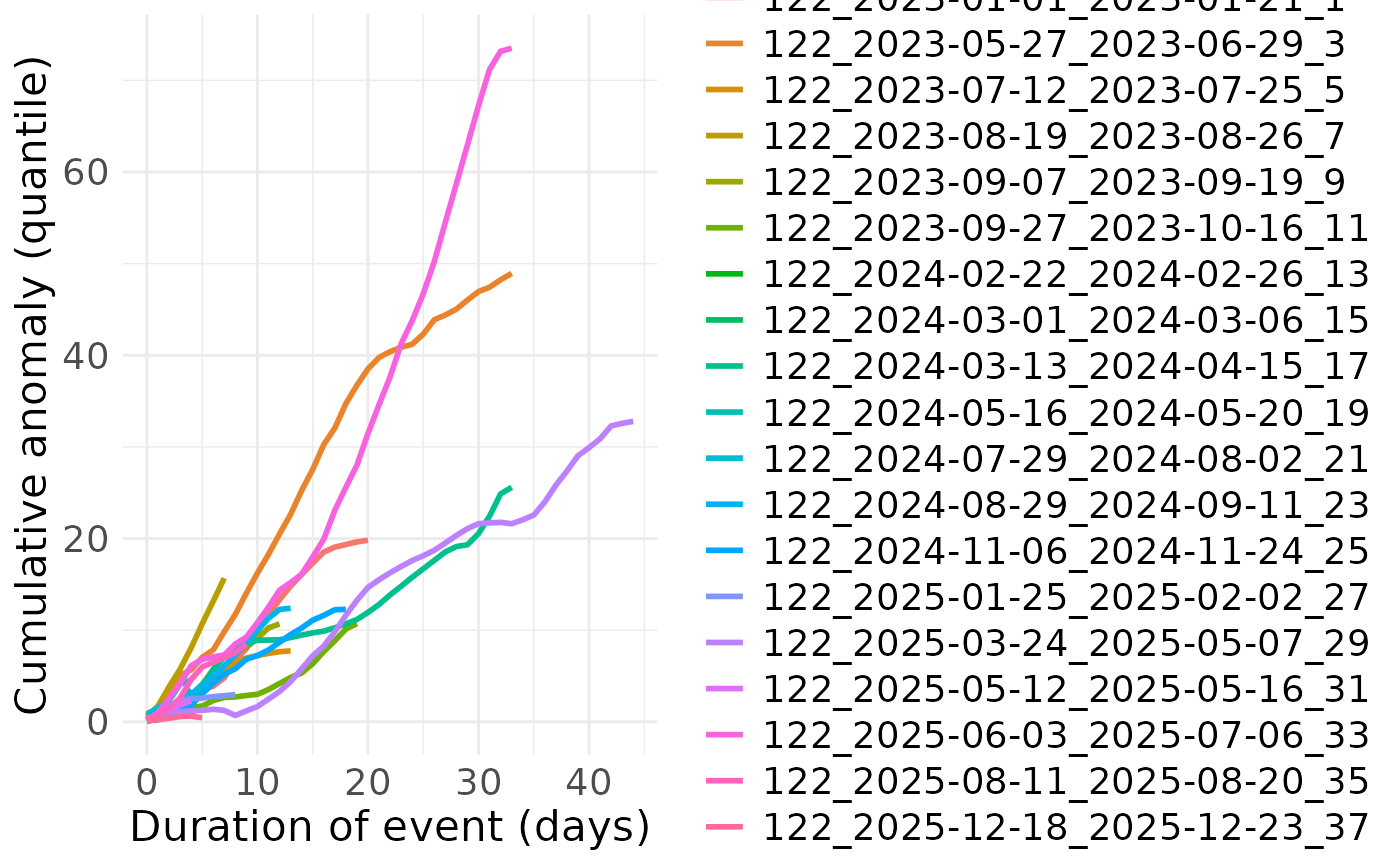
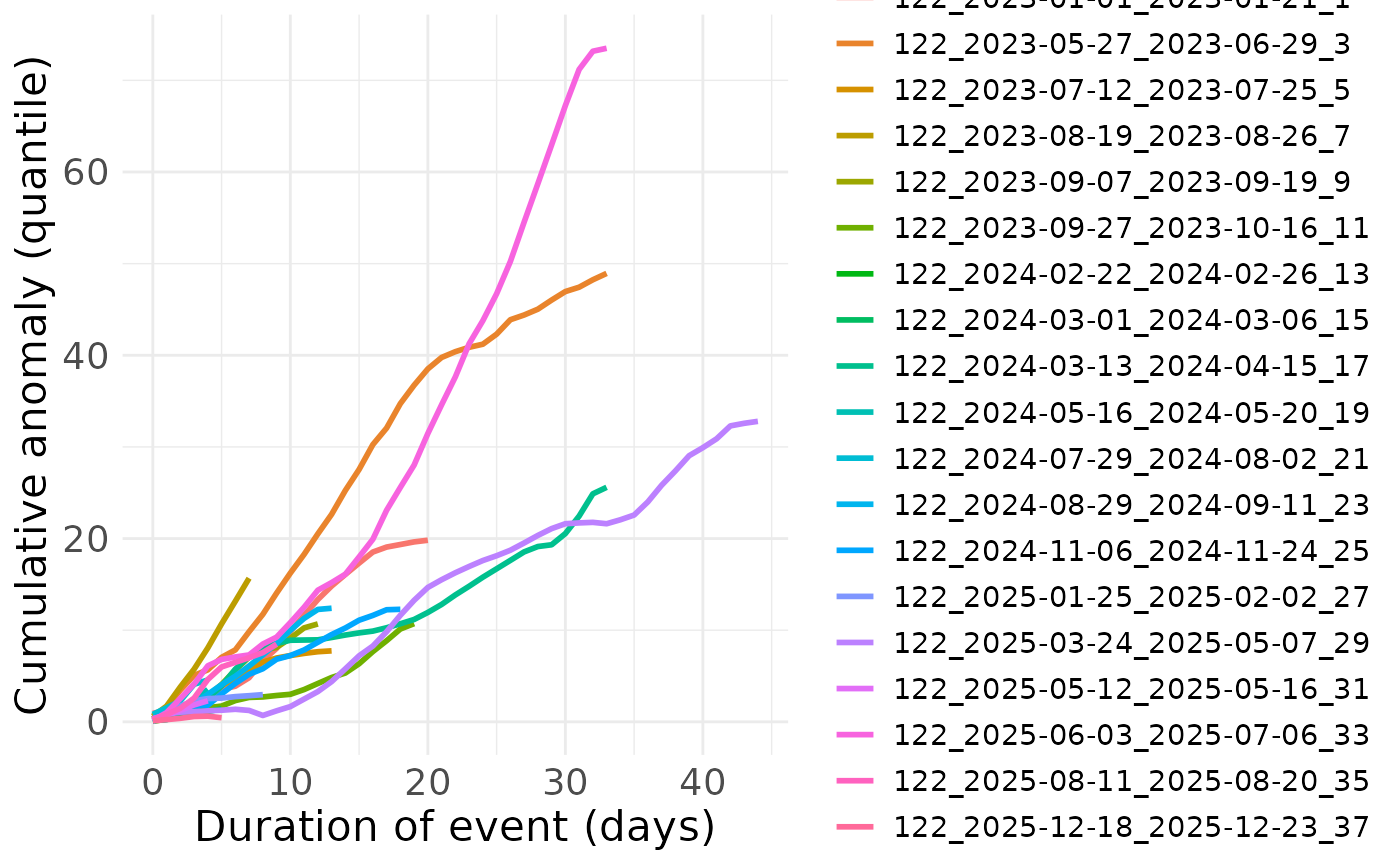
Deploying to gh-pages from @ VicoDelannoy/BioExtremeEvent@8dc6ef4bd537fd6a685067cb2ac87c960bdb5496 🚀

diff --git a/articles/g_calc_metrics_point.html b/articles/g_calc_metrics_point.html
@@ -253,13 +253,13 @@ Categories are defined in Hobday <em>et al.</em> 2018.</p>
 </tr>
 <tr class="even">
 <td align="center">x  </td>
-<td align="center">Latitude</td>
+<td align="center">Longitude</td>
 <td align="center">double</td>
 <td align="center">decimal degree</td>
 </tr>
 <tr class="odd">
 <td align="center">y</td>
-<td align="center">Longitude</td>
+<td align="center">Latitude</td>
 <td align="center">double</td>
 <td align="center">decimal degree</td>
 </tr>
@@ -464,8 +464,32 @@ Categories are defined in Hobday <em>et al.</em> 2018.</p>
 <td align="center">*</td>
 </tr>
 <tr class="odd">
+<td align="center">mean_anomaly_fixed</td>
+<td align="center">average of anomaly_fixed in the period</td>
+<td align="center">double</td>
+<td align="center">*</td>
+</tr>
+<tr class="even">
+<td align="center">sd_anomaly_fixed</td>
+<td align="center">standard deviation of anomaly_fixed</td>
+<td align="center">double</td>
+<td align="center">*</td>
+</tr>
+<tr class="odd">
 <td align="center"></td>
-<td align="center">period</td>
+<td align="center">in the period</td>
+<td align="center"></td>
+<td align="center"></td>
+</tr>
+<tr class="even">
+<td align="center">max_anomaly_fixed</td>
+<td align="center">maximum value of anomaly_fixed in</td>
+<td align="center">double</td>
+<td align="center">*</td>
+</tr>
+<tr class="odd">
+<td align="center"></td>
+<td align="center">the period</td>
 <td align="center"></td>
 <td align="center"></td>
 </tr>
@@ -503,6 +527,9 @@ Categories are defined in Hobday <em>et al.</em> 2018.</p>
 </table>
 <p>* Same unit as the spatraster provided (here it is degree Celsius) **
 Same format as the in the spatraster provided (here yyyy-mm-dd)</p>
+<p>Note: columns depending on baseline_qt, baseline_mean and
+baseline_fixed will only be calculated if the associated argument have
+been provided.</p>
 </div>
 </div>
 <div class="section level2">
@@ -687,7 +714,7 @@ indicate the extremes according to the categories:<a class="anchor" aria-label="
 <span>                              axis.title.x <span class="op">=</span> <span class="fu">ggplot2</span><span class="fu">::</span><span class="fu"><a href="https://ggplot2.tidyverse.org/reference/element.html" class="external-link">element_text</a></span><span class="op">(</span>size <span class="op">=</span> <span class="fl">16</span><span class="op">)</span>,</span>
 <span>                              axis.title.y <span class="op">=</span> <span class="fu">ggplot2</span><span class="fu">::</span><span class="fu"><a href="https://ggplot2.tidyverse.org/reference/element.html" class="external-link">element_text</a></span><span class="op">(</span>size <span class="op">=</span> <span class="fl">16</span><span class="op">)</span>,</span>
 <span>                              legend.title <span class="op">=</span>  <span class="fu">ggplot2</span><span class="fu">::</span><span class="fu"><a href="https://ggplot2.tidyverse.org/reference/element.html" class="external-link">element_text</a></span><span class="op">(</span>size <span class="op">=</span> <span class="fl">16</span><span class="op">)</span>,</span>
-<span>                              legend.text  <span class="op">=</span>  <span class="fu">ggplot2</span><span class="fu">::</span><span class="fu"><a href="https://ggplot2.tidyverse.org/reference/element.html" class="external-link">element_text</a></span><span class="op">(</span>size <span class="op">=</span> <span class="fl">14</span><span class="op">)</span></span>
+<span>                              legend.text  <span class="op">=</span>  <span class="fu">ggplot2</span><span class="fu">::</span><span class="fu"><a href="https://ggplot2.tidyverse.org/reference/element.html" class="external-link">element_text</a></span><span class="op">(</span>size <span class="op">=</span> <span class="fl">11</span><span class="op">)</span></span>
 <span>    <span class="op">)</span><span class="op">)</span></span></code></pre></div>
 <p><img src="g_calc_metrics_point_files/figure-html/unnamed-chunk-8-1.png" class="r-plt" alt="" width="700"><img src="g_calc_metrics_point_files/figure-html/unnamed-chunk-8-2.png" class="r-plt" alt="" width="700"></p>
 </div>

diff --git a/reference/BEE.calc.metrics_point.html b/reference/BEE.calc.metrics_point.html
@@ -89,7 +89,8 @@
 <span>  end_date <span class="op">=</span> <span class="cn">NULL</span>,</span>
 <span>  time_lapse_vector <span class="op">=</span> <span class="cn">NULL</span>,</span>
 <span>  baseline_qt <span class="op">=</span> <span class="cn">NULL</span>,</span>
-<span>  baseline_mean <span class="op">=</span> <span class="va">baseline_mean</span>,</span>
+<span>  baseline_mean <span class="op">=</span> <span class="cn">NULL</span>,</span>
+<span>  baseline_fixed <span class="op">=</span> <span class="cn">NULL</span>,</span>
 <span>  group_by_event <span class="op">=</span> <span class="cn">FALSE</span></span>
 <span><span class="op">)</span></span></code></pre></div>
     </div>
@@ -121,35 +122,42 @@ longitudes and latitudes, respectively.</p></dd>
 
 <dt id="arg-start-date">start_date<a class="anchor" aria-label="anchor" href="#arg-start-date"></a></dt>
 <dd><p>:
-First day on which you want to start computing metrics.</p></dd>
+First day on which you want to start computing metrics. Optional argument.</p></dd>
 
 
 <dt id="arg-end-date">end_date<a class="anchor" aria-label="anchor" href="#arg-end-date"></a></dt>
 <dd><p>:
-Last day on which you want to start computing metrics.</p></dd>
+Last day on which you want to start computing metrics. Optional argument.</p></dd>
 
 
 <dt id="arg-time-lapse-vector">time_lapse_vector<a class="anchor" aria-label="anchor" href="#arg-time-lapse-vector"></a></dt>
 <dd><p>:
 A vector of time laps on which to compute mean evolution rate and variance
-of the studdied parameter.</p></dd>
+of the studdied parameter. Optional argument.</p></dd>
 
 
 <dt id="arg-baseline-qt">baseline_qt<a class="anchor" aria-label="anchor" href="#arg-baseline-qt"></a></dt>
 <dd><p>:
 Spatraster of the 90th percentile baseline (or the 10th percentile
-baseline).</p></dd>
+baseline). Optional argument.</p></dd>
 
 
 <dt id="arg-baseline-mean">baseline_mean<a class="anchor" aria-label="anchor" href="#arg-baseline-mean"></a></dt>
 <dd><p>:
-Spatraster of the mean value baseline.</p></dd>
+Spatraster of the mean value baseline. Optional argument.</p></dd>
+
+
+<dt id="arg-baseline-fixed">baseline_fixed<a class="anchor" aria-label="anchor" href="#arg-baseline-fixed"></a></dt>
+<dd><p>:
+A numerical value representing a fixed threshold for which you want to
+calculate the distance between the observed value and the threshold.
+Optional argument.</p></dd>
 
 
 <dt id="arg-group-by-event">group_by_event<a class="anchor" aria-label="anchor" href="#arg-group-by-event"></a></dt>
 <dd><p>:
 Whether you want an output summarise by extreme event or not. If not, you
-just get daily metrics.</p></dd>
+just get daily metrics. Optional argument.</p></dd>
 
 </dl></div>
     <div id="value">
@@ -199,6 +207,7 @@ values, peak day, onset-rate, off-set rate, mean anomaly, maximum category
 <span class="r-in"><span><span class="co">#  NULL means it will not be computated</span></span></span>
 <span class="r-in"><span> baseline_qt <span class="op">=</span> <span class="va">baseline_qt90_smth_15</span>,</span></span>
 <span class="r-in"><span> baseline_mean <span class="op">=</span> <span class="va">baseline_mean_smth_15</span>,</span></span>
+<span class="r-in"><span> baseline_fixed <span class="op">=</span> <span class="fl">12.5</span>,</span></span>
 <span class="r-in"><span> group_by_event <span class="op">=</span> <span class="cn">FALSE</span></span></span>
 <span class="r-in"><span><span class="op">)</span></span></span>
 <span class="r-msg co"><span class="r-pr">#&gt;</span> You didn't specify a begining date and a ending date (see argument </span>
